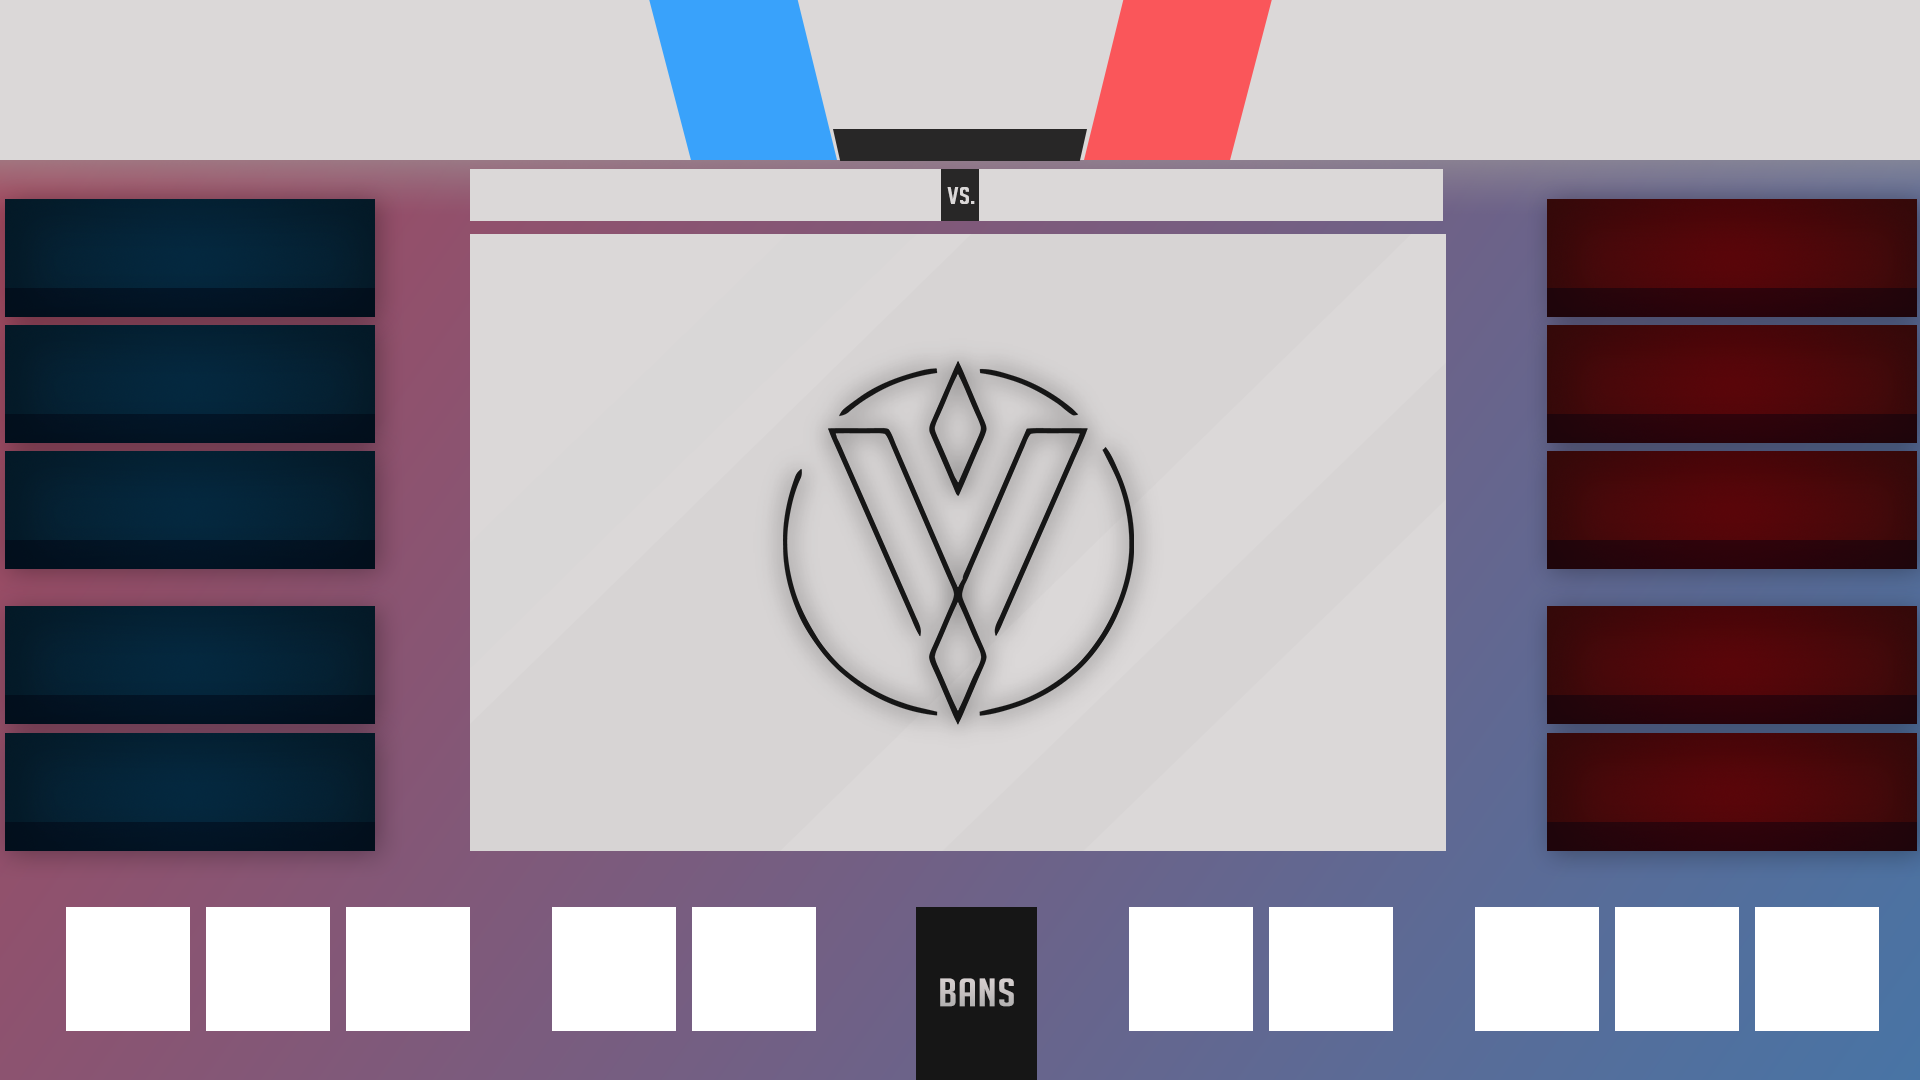
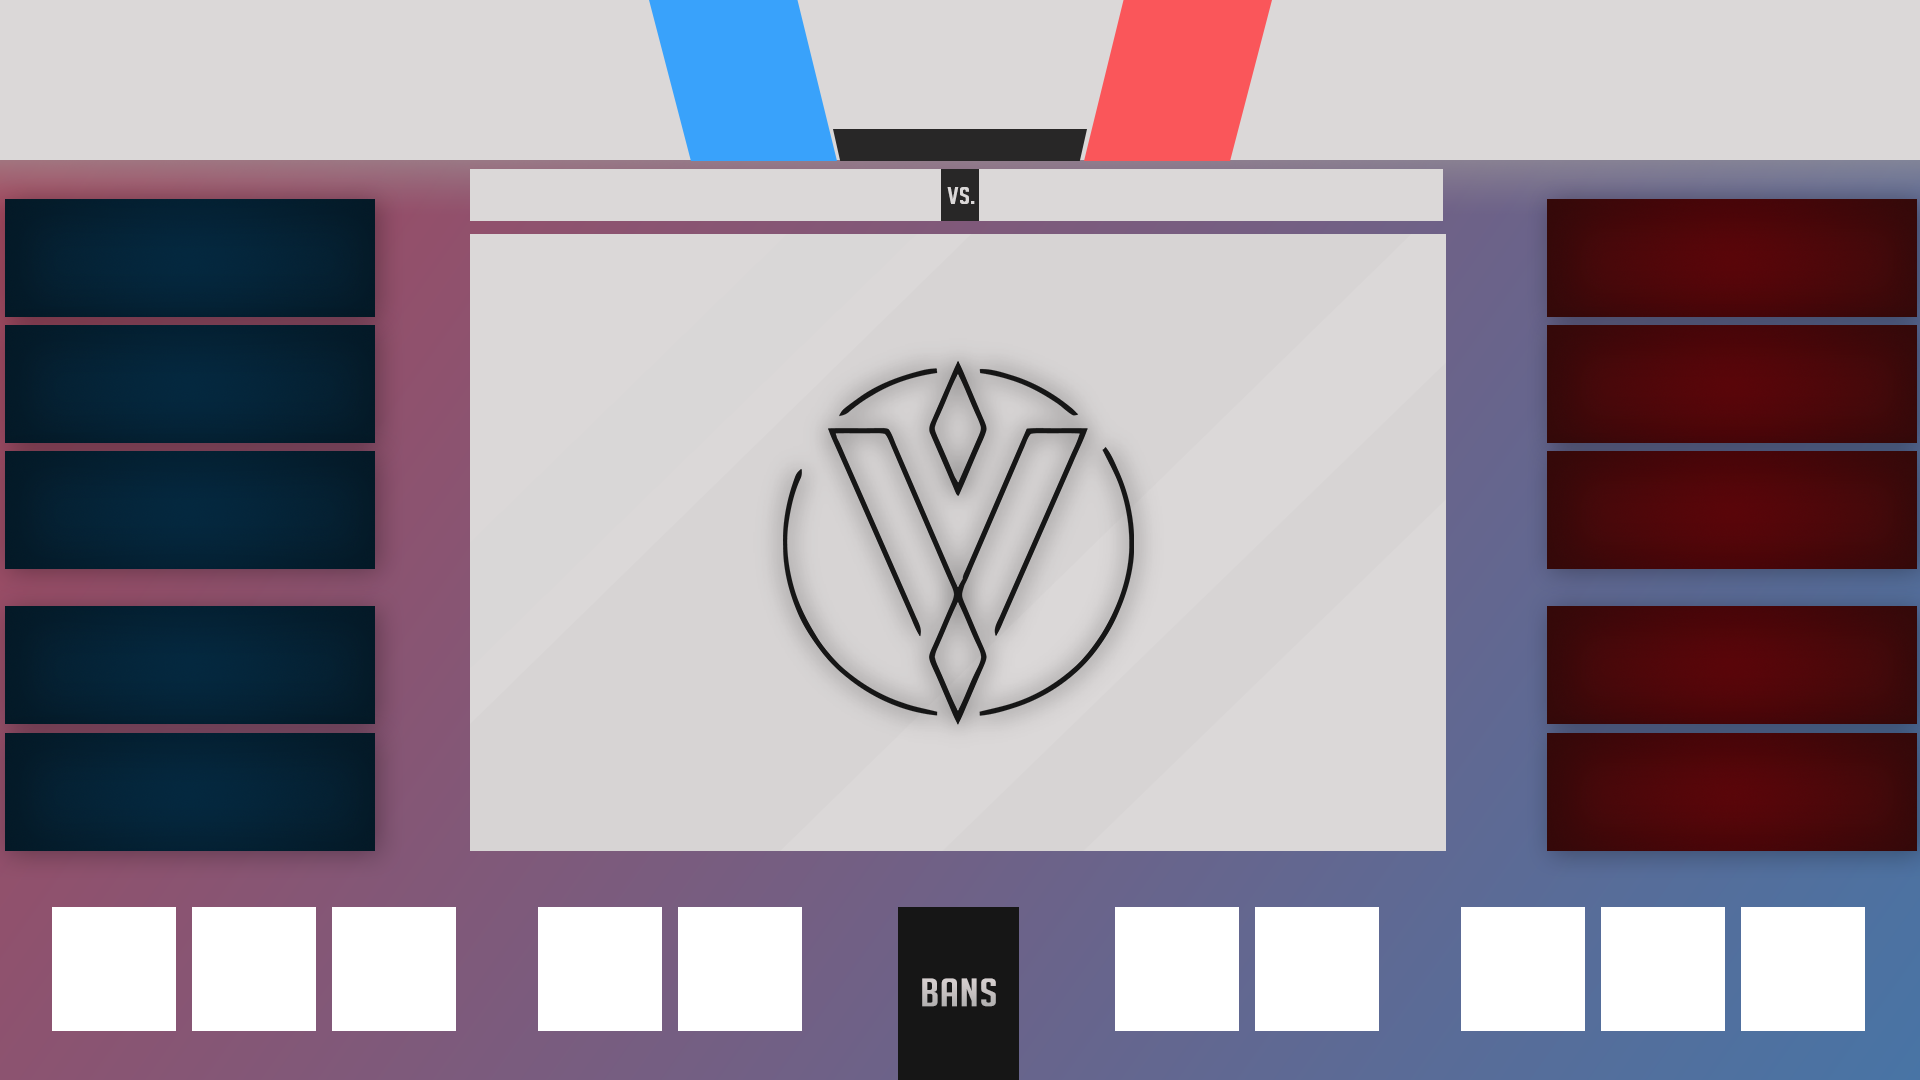
Fixing ban alignment

diff --git a/public/css/champ-select.css b/public/css/champ-select.css
@@ -121,52 +121,52 @@ body {
 
 #b-0 {
     top: 907px;
-    left: 48px;
+    left: 34px;
 }
 
 #b-1 {
     top: 907px;
-    left: 1737px;
+    left: 1723px;
 }
 
 #b-2 {
     top: 907px;
-    left: 188px;
+    left: 174px;
 }
 
 #b-3 {
     top: 907px;
-    left: 1597px;
+    left: 1583px;
 }
 
 #b-4 {
     top: 907px;
-    left: 328px;
+    left: 314px;
 }
 
 #b-5 {
     top: 907px;
-    left: 1457px;
+    left: 1443px;
 }
 
 #b-6 {
     top: 907px;
-    left: 1251px;
+    left: 1237px;
 }
 
 #b-7 {
     top: 907px;
-    left: 534px;
+    left: 520px;
 }
 
 #b-8 {
     top: 907px;
-    left: 1111px;
+    left: 1097px;
 }
 
 #b-9 {
     top: 907px;
-    left: 674px;
+    left: 660px;
 }
 
 /* TEXT */
